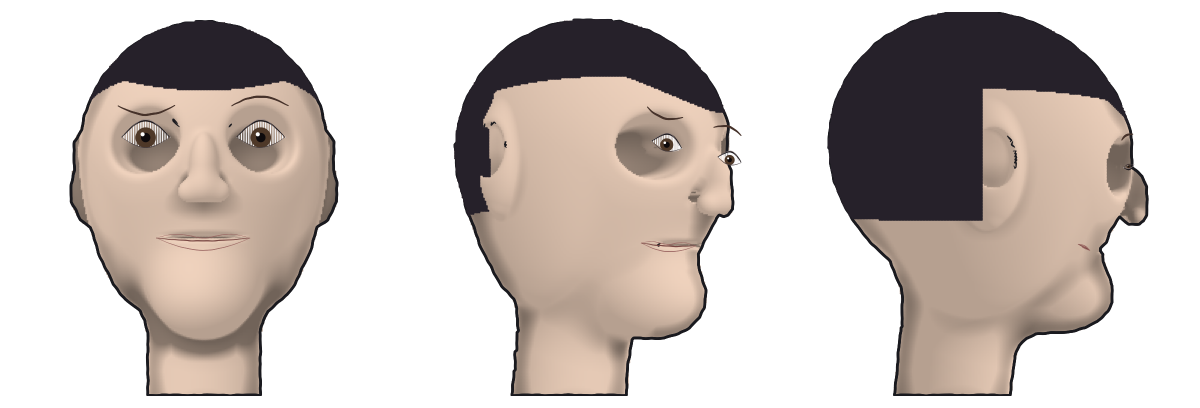
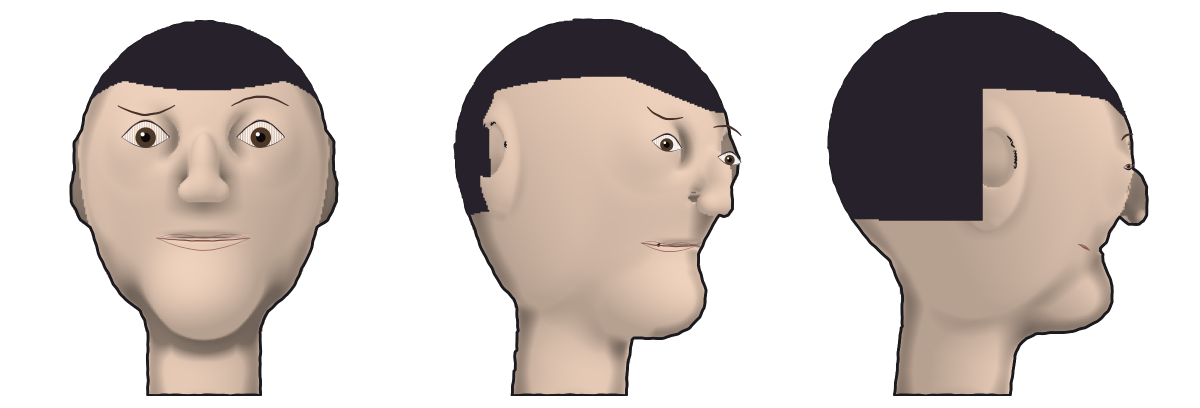
style: fill eye sockets with eyeball/lid mounds (skin covers the wraith hollow)
Add eyeball spheres in the style geometry that fill the core's deep orbits up
to ~the skin, so the skin pass covers them as a normal convex eye area instead
of a sunken dark socket. The drawn eye sits on the mound. Gentle lid, not a
bulging frog-eye.

Changed region(s): [[0.0925, 0.2647, 0.2775, 0.4706], [0.4933, 0.2647, 0.6167, 0.4412], [0.925, 0.2941, 0.9558, 0.4706]]

diff --git a/face-lib/spike/style3d.ts b/face-lib/spike/style3d.ts
@@ -60,9 +60,22 @@ const earSDF = (p: Vec3, sign: number): number => {
   return smin(ear, lobe, 0.03);
 };
 
+// ---- eyeball / lid mound: fills the core's deep orbit so the style's skin
+// covers it as a normal eye area instead of a sunken wraith hollow. The drawn
+// eye (iris, lids) then sits on this mound. Front pole ~ at the skin (gentle
+// convex lid), not a bulging frog-eye.
+const eyeballSDF = (p: Vec3, sign: number): number => {
+  const ex = sign * C.eyeSpacing;
+  const ey = C.eyeY + C.eyeSpacing * 0.04;
+  const ez = surfZ(C.eyeSpacing, ey);
+  const r = C.eyeSpacing * 0.64;
+  return sphere(p, [ex, ey, ez - r * 0.88], r);   // front pole ~ ez + 0.12r
+};
+
 // Core skull + the style's 3D form features.
 export const styledHead = (p: Vec3, dial: Partial<HeadDial> = {}): number => {
   let h = skull(p, dial);
+  h = smin(h, min(eyeballSDF(p, -1), eyeballSDF(p, 1)), 0.06); // fill the sockets first
   h = smin(h, noseSDF(p), 0.04);
   h = smin(h, min(earSDF(p, -1), earSDF(p, 1)), 0.02);
   return h;
